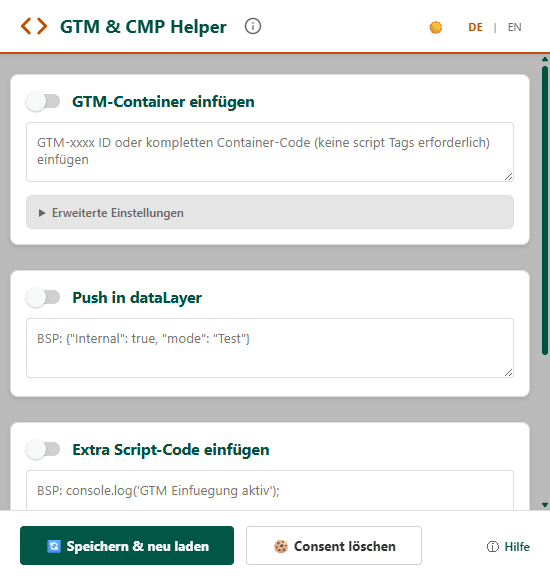
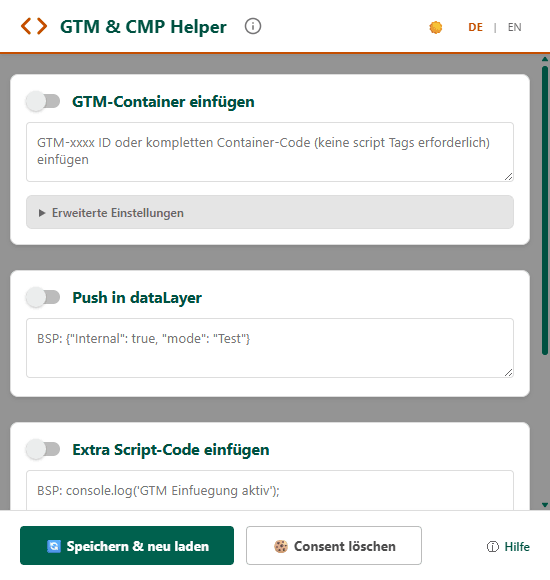
chore(screenshots): Destinations-Motiv

Changed region(s): [[0.0, 0.0931, 1.0, 0.9], [0.5255, 0.931, 0.7109, 0.9621]]

diff --git a/scripts/generate-screenshots.js b/scripts/generate-screenshots.js
@@ -43,6 +43,7 @@ async function generateScreenshots() {
     { name: 'light_de', lang: 'de', theme: 'light', advanced: false },
     { name: 'advanced_open', lang: 'de', theme: 'dark', advanced: true },
     { name: 'detection_de', lang: 'de', theme: 'dark', advanced: false, detection: true },
+    { name: 'destinations_de', lang: 'de', theme: 'dark', advanced: false, destinations: true },
     { name: 'gtmui_de', lang: 'de', theme: 'dark', advanced: false, gtmui: true },
   ];
 
@@ -75,6 +76,19 @@ async function generateScreenshots() {
           { id: 'GTM-XXXX123', method: 'standard', host: 'www.googletagmanager.com', frame: 'top' },
           { id: 'G-ABCD1234', method: 'first-party', host: 'sst.example.com', frame: 'top' },
           { id: 'AW-98765432', method: 'standard', host: 'www.googletagmanager.com', frame: 'top' }
+        ];
+        window.paintGtmDetections();
+      });
+    }
+
+    // Neues Format (Container mit Destinations) neben einem klassisch geladenen Google-Tag.
+    if (scenario.destinations) {
+      await page.waitForTimeout(300);
+      await page.evaluate(() => {
+        window.gtmDetectRecords = [
+          { id: 'GTM-XXXX123', method: 'standard', host: 'www.googletagmanager.com', frame: 'top',
+            destinations: ['G-ABCD1234', 'AW-98765432', 'DC-1234567'] },
+          { id: 'G-EFGH5678', method: 'first-party', host: 'sst.example.com', frame: 'top' }
         ];
         window.paintGtmDetections();
       });

diff --git a/scripts/generate-store-screenshots.js b/scripts/generate-store-screenshots.js
@@ -113,11 +113,12 @@ async function renderPromoTile(page, dir, filename, w, h) {
   console.log('  wrote', filename);
 }
 
-// Mock-Funde für die Erkennungs-Sektion (Beispiel-IDs).
+// Mock-Funde für die Erkennungs-Sektion (Beispiel-IDs): ein Container mit Destinations
+// und ein klassisch geladenes Google-Tag — der Store erlaubt nur fünf Bilder, eins für beides.
 const DETECT_RECORDS = [
-  { id: 'GTM-XXXX123', method: 'standard', host: 'www.googletagmanager.com', frame: 'top' },
-  { id: 'G-ABCD1234', method: 'first-party', host: 'sst.example.com', frame: 'top' },
-  { id: 'AW-98765432', method: 'standard', host: 'www.googletagmanager.com', frame: 'top' }
+  { id: 'GTM-XXXX123', method: 'standard', host: 'www.googletagmanager.com', frame: 'top',
+    destinations: ['G-ABCD1234', 'AW-98765432', 'DC-1234567'] },
+  { id: 'G-EFGH5678', method: 'first-party', host: 'sst.example.com', frame: 'top' }
 ];
 
 async function generateStoreScreenshots() {
